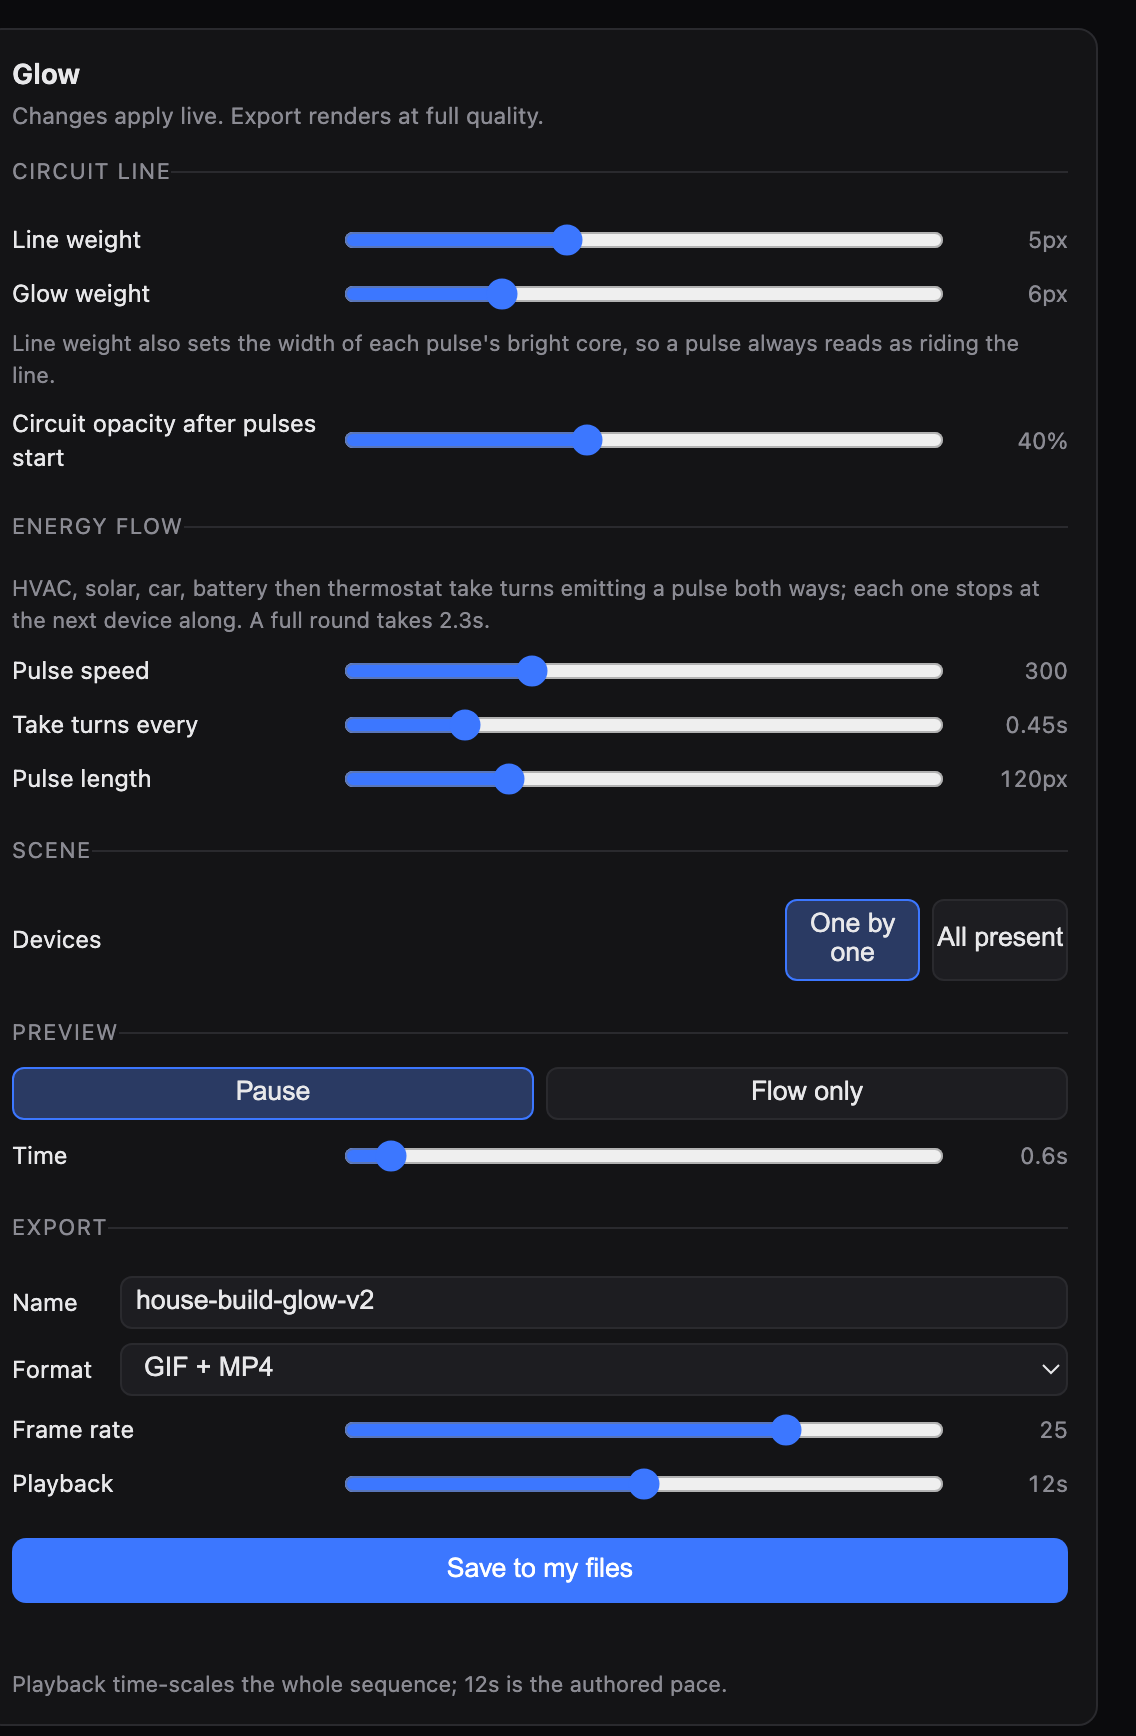
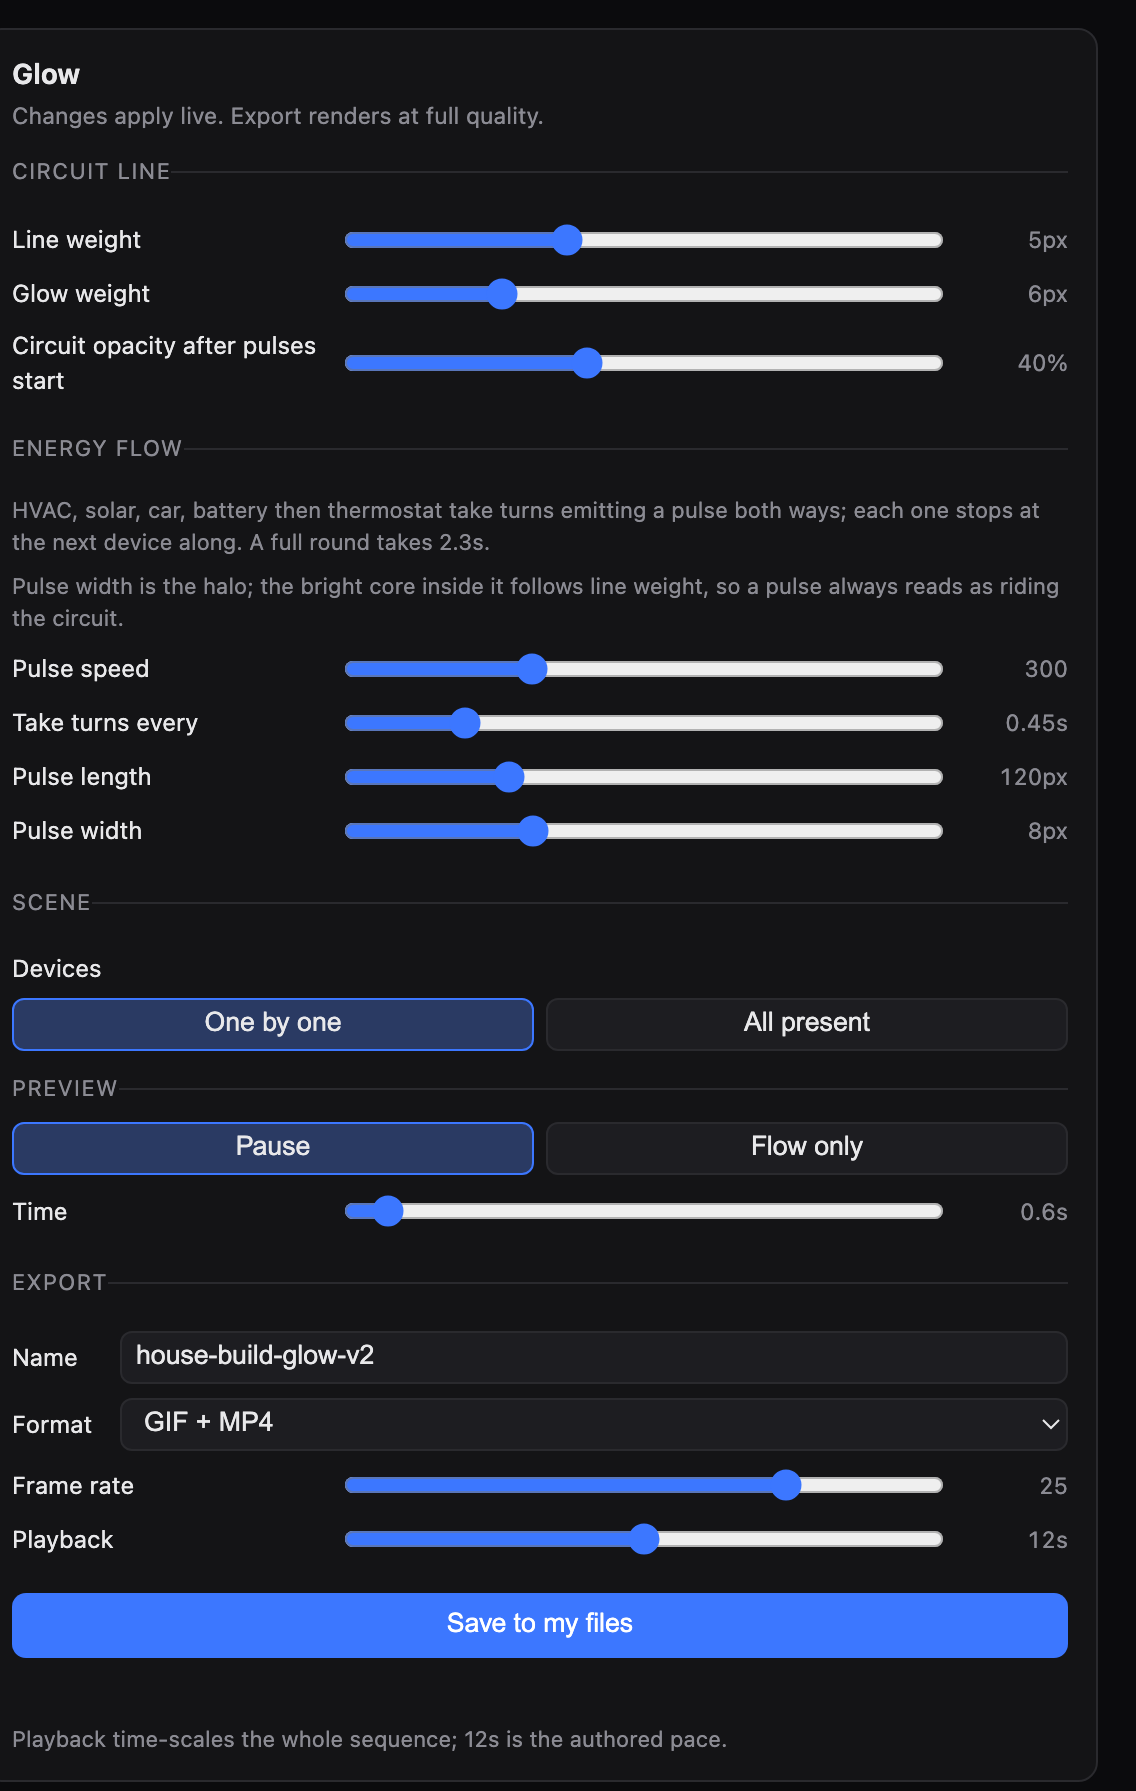
Add a pulse width control and match the Devices buttons to Preview
The Devices pair sat inside a .row, so it only got the width the label left
over and its text wrapped onto two lines. It now uses the same full-width
layout as the Preview pair, with the label above it — both pairs measure
254x27.

Pulse width sets the halo around each travelling pulse. The core keeps
following line weight.

diff --git a/house-animation-glow.html b/house-animation-glow.html
@@ -28,6 +28,7 @@
   input[type=text], select { background:#1d1d21; color:var(--ink); border:1px solid var(--line);
     border-radius:6px; padding:5px 7px; font:12px inherit; width:100%; box-sizing:border-box; }
   .seg { display:flex; gap:6px; }
+  .seglabel { font-size:12px; margin:7px 0 6px; }
   .seg button { flex:1; background:#1d1d21; color:var(--ink); border:1px solid var(--line);
                 border-radius:6px; padding:5px 0; font:12px inherit; cursor:pointer; }
   .seg button[aria-pressed=true] { background:#2a3a63; border-color:#3C77FF; }
@@ -97,29 +98,31 @@
         <input type="range" id="c_lineW" min="1" max="12" step="0.5"><output id="o_lineW"></output></div>
       <div class="row"><label for="c_glowStroke">Glow weight</label>
         <input type="range" id="c_glowStroke" min="0" max="24" step="0.5"><output id="o_glowStroke"></output></div>
-      <div class="hint">Line weight also sets the width of each pulse's bright
-        core, so a pulse always reads as riding the line.</div>
       <div class="row"><label for="c_lineDim">Circuit opacity after pulses start</label>
         <input type="range" id="c_lineDim" min="0" max="1" step="0.05"><output id="o_lineDim"></output></div>
     </fieldset>
 
     <fieldset><legend>Energy flow</legend>
       <div class="hint" id="srcHint"></div>
+      <div class="hint">Pulse width is the halo; the bright core inside it follows
+        line weight, so a pulse always reads as riding the circuit.</div>
       <div class="row"><label for="c_pulseSpeed">Pulse speed</label>
         <input type="range" id="c_pulseSpeed" min="40" max="900" step="10"><output id="o_pulseSpeed"></output></div>
       <div class="row"><label for="c_emitEvery">Take turns every</label>
         <input type="range" id="c_emitEvery" min="0.1" max="2" step="0.05"><output id="o_emitEvery"></output></div>
       <div class="row"><label for="c_pulseLen">Pulse length</label>
         <input type="range" id="c_pulseLen" min="20" max="400" step="10"><output id="o_pulseLen"></output></div>
+      <div class="row"><label for="c_flowW">Pulse width</label>
+        <input type="range" id="c_flowW" min="1" max="24" step="0.5"><output id="o_flowW"></output></div>
 
     </fieldset>
 
     <fieldset><legend>Scene</legend>
-      <div class="row"><label>Devices</label>
-        <div class="seg">
-          <button data-mode="sequence" id="b_sequence">One by one</button>
-          <button data-mode="present" id="b_present">All present</button>
-        </div></div>
+      <div class="seglabel">Devices</div>
+      <div class="seg">
+        <button data-mode="sequence" id="b_sequence">One by one</button>
+        <button data-mode="present" id="b_present">All present</button>
+      </div>
     </fieldset>
 
     <fieldset><legend>Preview</legend>
@@ -428,9 +431,9 @@ if(UI){
   };
   addEventListener("resize",fit); fit();
 
-  const KEYS=["lineW","glowStroke","pulseLen","pulseSpeed","emitEvery","lineDim"];
+  const KEYS=["lineW","glowStroke","pulseLen","flowW","pulseSpeed","emitEvery","lineDim"];
   const REPOOL=new Set(["pulseSpeed","emitEvery","pulseLen"]);
-  const FMT={ lineW:v=>v+"px", glowStroke:v=>v+"px",
+  const FMT={ lineW:v=>v+"px", glowStroke:v=>v+"px", flowW:v=>v+"px",
               pulseLen:v=>Math.round(v)+"px", lineDim:v=>Math.round(v*100)+"%",
               pulseSpeed:v=>Math.round(v), emitEvery:v=>v.toFixed(2)+"s" };
   let playing=true, flowOnly=false, t0=performance.now(), tNow=0;

diff --git a/README.md b/README.md
@@ -23,8 +23,9 @@ Requires `python3`, `ffmpeg`, and Google Chrome at the standard macOS path.
 ## Controls
 
 **Line weight** and **glow weight** — the width of the circuit's bright core
-and of the halo behind it. Line weight also sets the width of each pulse's
-core, so a pulse always reads as riding the line rather than sitting beside it.
+and of the halo behind it. **Pulse width** is the halo around a travelling
+pulse; the bright core inside it follows line weight, so a pulse always reads
+as riding the circuit rather than sitting beside it.
 
 **Circuit opacity after pulses start** — the line draws itself in at full
 strength, then settles to this level once the pulses begin, so the pulses read
